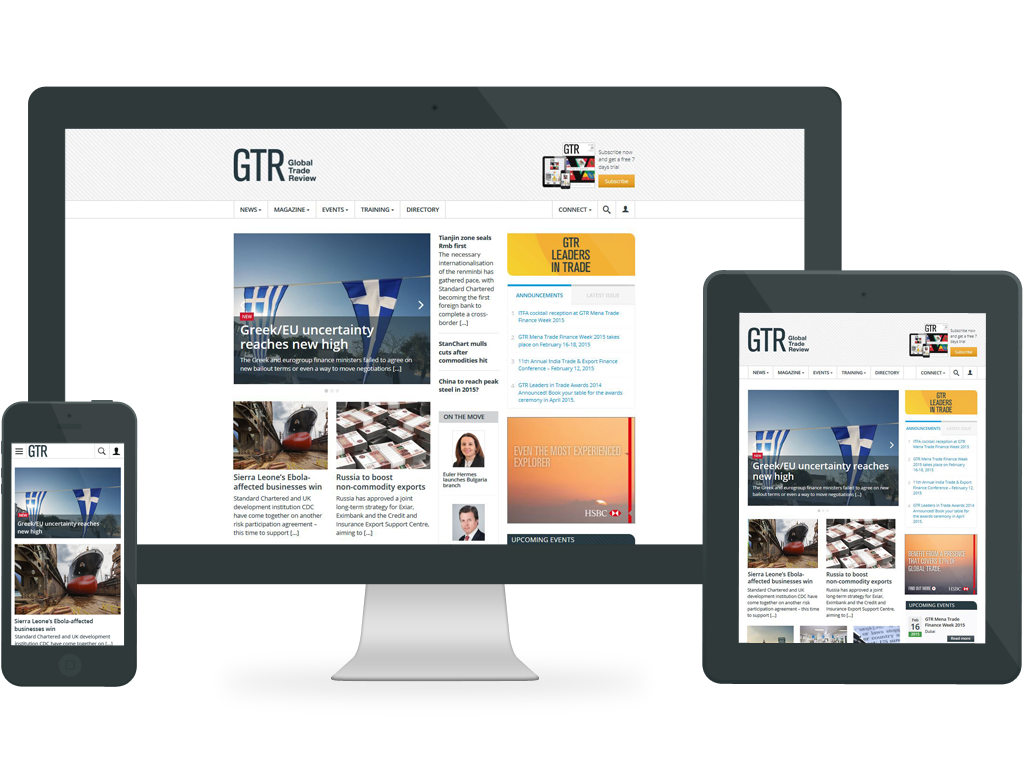
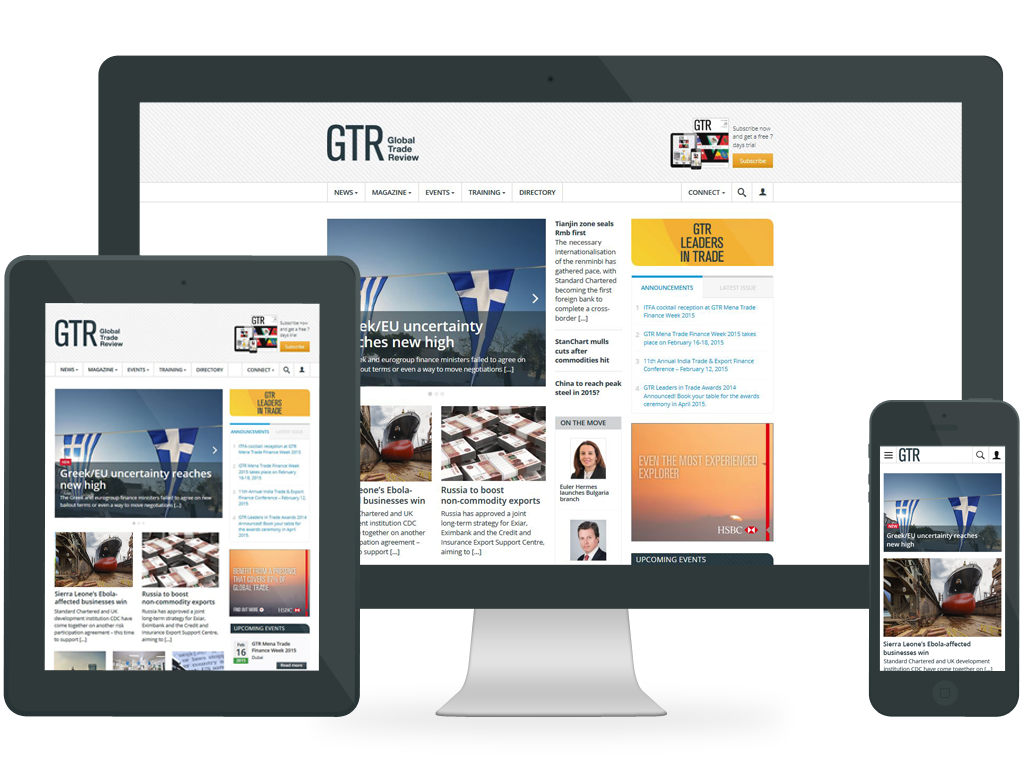
GTR website entry

diff --git a/_portfolio_entries/2014-09-08-gtr-website.html b/_portfolio_entries/2014-09-08-gtr-website.html
@@ -19,13 +19,14 @@ abstract: Website design
     <img class="u-full-width figure-container" src="/artwork/gtr-website/gtr-website-all-devices-comp.png">
 </figure>
 
-
-<section class="container line-separator"></section>
+<figure class="figure-full-bleed">
+    <img class="u-full-width" src="/artwork/gtr-website/gtr-website-mockups-sketches-image.jpg">
+</figure>
 
 
 <section class="container page-section project-explanation"> 
     <h3 class="page-section-header"><strong>Mobile first approach</strong></h3>
-    <h6 class="page-section-content">Taking into account that GTR user is very often on the go, it was very important to get a mobile version of the site right. My focus in mobile version of the website was intentional navigation. Below are the snippets from wireframes of mobile navigation that developers were provided with.</h6>
+    <h6 class="page-section-content">Taking into account that GTR user is often on the go, it was very important to get a mobile version of the site right. My focus in mobile version of the website was intentional navigation. Below are the snippets from the wireframes that were provided to developers to demonstrate how I'd like mobile navigation to work.</h6>
 </section>
 
 
@@ -34,20 +35,31 @@ abstract: Website design
     <img class="u-full-width" src="/artwork/gtr-website/GTR-website-mobile-nav-capture2.jpg">
 </figure>
 
-<section class="container line-separator"></section>
 
 <section class="container page-section project-explanation"> 
     <h3 class="page-section-header"><strong>The result</strong></h3>
     <h6 class="page-section-content">Fluent in using the Adobe Creative Suite and with working knowledge of HTML and CSS coding. My areas of expertise range from print, web, multimedia, and illustration. I can turn great ideas into stunning designs whilst making sure that form follows function throughout all elements.</h6>
 </section>
 
+
+<figure class="container">
+    <img class="u-full-width figure-container" src="/artwork/gtr-website/gtr-website-desktop-home.png">
+</figure>
+
+<section class="about-skills panel panel-full-width u-cf">
+
 <figure class="container">
     <div class="six columns mobile-singles">
-        <img class="u-full-width" src="/artwork/gtr-website/gtr-website-tablet-home.png">
     </div>
     <div class="six columns mobile-singles">
         <img class="u-full-width" src="/artwork/gtr-website/gtr-website-tablet-magazine-tab.png">
     </div>
+</figure>
+</section>
+
+
+<figure class="container">
+    <img class="u-full-width figure-container" src="/artwork/gtr-website/gtr-website-desktop-events.png">
 </figure>
 
 <figure class="container">

diff --git a/css/main.css b/css/main.css
@@ -351,6 +351,11 @@ input.menu-toggle[type=checkbox]:checked ~ .navbar-list{
 }
 
 
+.color-fill {
+    background-color: #666666;
+}
+
+
 
 /*.portfolio-item-section {  
     padding-top: 5rem;
@@ -563,7 +568,7 @@ input.menu-toggle[type=checkbox]:checked ~ .navbar-list{
 }
 
 .page-section.project-explanation {
-    padding-top: 0rem;
+    padding-top: 10rem;
     padding-bottom: 10rem;
 }
 
